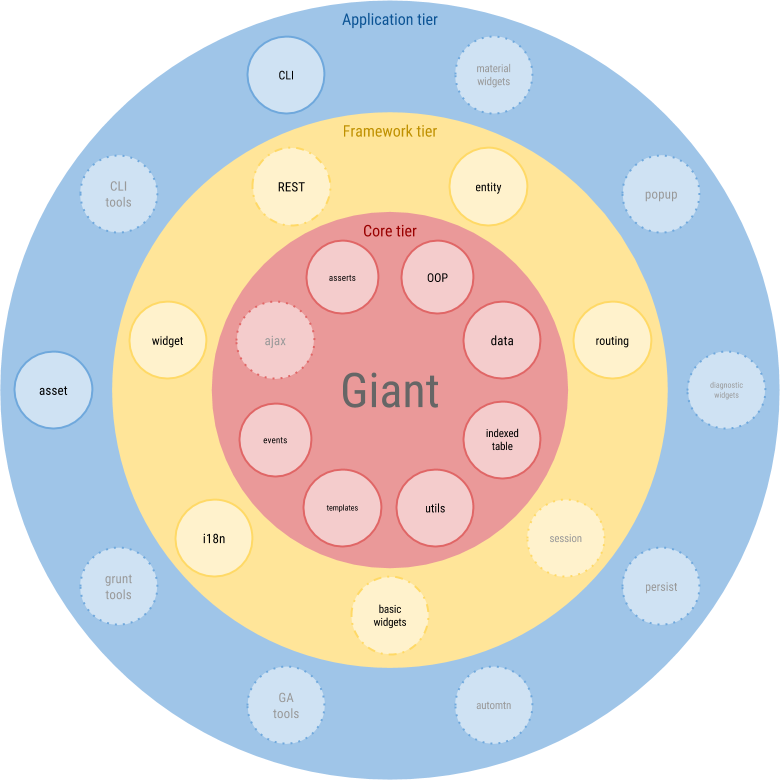
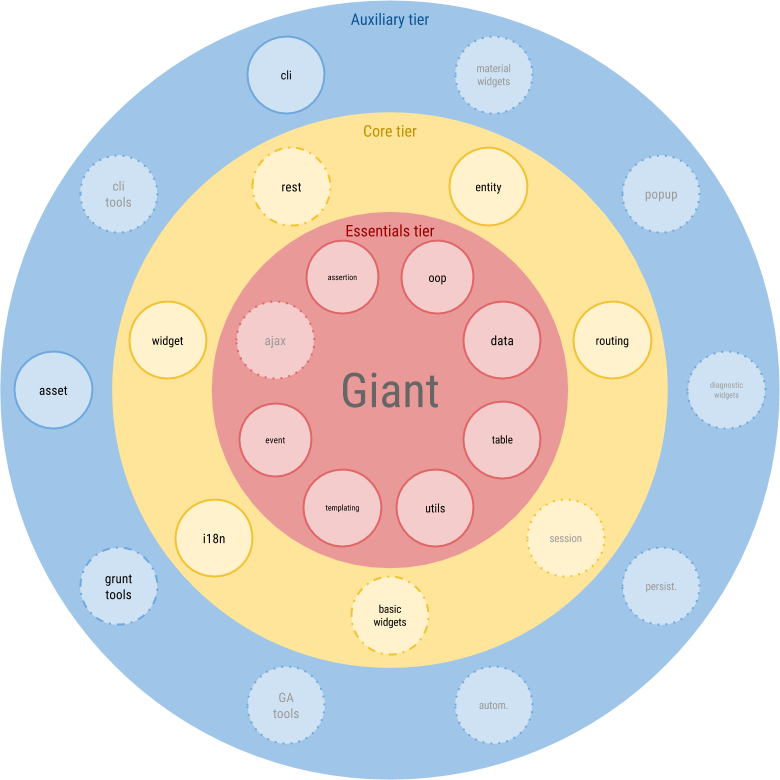
adds module descriptions

diff --git a/Introduction.md b/Introduction.md
@@ -23,45 +23,45 @@ Giant encourages the application of these directives to the SPAs built with it.
 Modules
 -------
 
-In Giant, each module takes care of a specific aspect of the application. Modules are self-containing [npm](http://npmjs.org) packages, able to run both in modern browsers and under [Node.js](https://nodejs.org). On the figure below, each bubble represents a module of the framework, organized into 3 tiers: core, framework, and application. Modules in one tier may only depend on modules in the same or lower tiers. Modules that are grayed out are not published yet.
+In Giant, each module takes care of a specific aspect of the application. Modules are self-containing [npm](http://npmjs.org) packages, able to run both in modern browsers and under [Node.js](https://nodejs.org). On the figure below, each bubble represents a module of the framework, organized into 3 tiers: *essentials*, *core*, and *auxiliary*. Modules in one tier may only depend on modules in the same or lower tiers. Modules that are grayed out are not published yet.
 
 ![Module structure (Open in new tab to magnify)](https://raw.githubusercontent.com/giantjs/giant-developer-guide/draft/images/Giant%20Modules.png)
 
-### Core tier modules
+### Essentials tier
 
-Basic functionality for building classes, logging errors, coupling components, and managing data objects.
+Basic functionality for building classes, logging errors, coupling components, and managing templates and data objects.
 
-- **Extensible assertions**: Provides a few built-in assertions and an interface to add new ones.
-- **OOP and testing**: Implements a powerful OOP toolkit that allows multiple inheritance, reflection, and provides means for performance tuning and unit testing.
-- **General utilities**: Low-level utilities, eg. async tools, promises, string, and array manipulation. 
-- **Data structures**: Hash-based data structures such as collections, dictionaries, sets, trees, with functional APIs.
-- **Universal events**: Event dispatching and subscription mechanism that is universally applicable to anything that may be represented by a path.
-- **String templating**: Flexible, evented string-replacement.
-- **Ajax**: Evented API around URLs and `XMLHttpRequest`.
-- **Indexed tables**: Hash-based implementation of indexed querying and updates on JSON objects that represent tables.
+- **assertion**: Provides a few built-in assertions and an interface to add new ones.
+- **oop**: Implements a powerful OOP toolkit that allows multiple inheritance, instance caching, and reflection; provides means for performance tuning and unit testing.
+- **utils**: Low-level utilities, eg. async tools, promises, as well as string, and array manipulation. 
+- **data**: Hash-based data structures such as collections, dictionaries, sets, trees, with functional APIs.
+- **event**: Event dispatching and subscription mechanism that is universally applicable to anything that may be represented by a path. Allows events to be traced back to their origin.
+- **templating**: Flexible, evented string-replacement.
+- **ajax**: Evented API around URLs and `XMLHttpRequest`.
+- **table**: Hash-based implementation of querying and updates on indexed JSON objects that represent tables.
 
-### Framework tier modules:
+### Core tier
 
-Low-level and common application components.
+Low-level and common application components. The core tier alone is enough to build applications, when auxiliary tier models are not necessary or not suitable.
 
-- **API access**
-- **Entity system**
-- **Routing**
-- **Widget system**
-- **Internationalization**
-- **Session management**
-- **General purpose widgets**
+- **rest (transport)**: Implements evented access to REST APIs. Decouples AJAX requests from application components consuming API responses.
+- **entity**: Introduces an evented in-memory datastore for managing documents, fields, and collections, as well as lookups and search indexes. 
+- **routing**: Provides an API for navigation and notifies on route changes.
+- **widget**: Basis for stateful view-controllers. Widgets are self-contained, arranged in a high-level hierarchy (approximating the DOM), and have a life cycle.
+- **i18n**: Provides API for switching locale & obtaining localized strings. Maintains evented, application-wide locale state, introduces quasi-strings that serialize according to the current locale. JSON-based, compatible with [gettext](https://www.gnu.org/software/gettext/). Agnostic re. JSON source.
+- **session**: Provides API for user authentication. Maintains evented, application-wide state for current user. Back-end agnostic.
+- **basic-widgets (common-widgets)**: Set of commonly used skinless widgets, based on the **widget** module.
 
-### Application tier modules:
+### Auxiliary tier
 
 High-level components for assisting development, deployment, and logging.
 
-- **Asset management**
-- **CLI building tools**
-- **Diagnostic widgets**
-- **Google Analytics tools**
-- **Grunt tools**
-- **Material design widgets**
-- **Popup management**
-- **Test & build automation**
-- **Framework CLI**
+- **asset**: Manages application assets, both at build / deployment, as well as loading.
+- **cli-tools**: Implements classes for dealing with CLI arguments in a uniform way.
+- **diagnostic-widgets**: A set of skinned widgets providing insight to the developer about current application state.
+- **ga-tools**: Provides high-level API for connecting the application with [Google Analytics](https://www.google.com/analytics/).
+- **grunt-tools**: Provides high-level and uniform API for dealing with [Grunt](http://gruntjs.com/) tasks.
+- **material-widgets**: Adds off-the-shelf [Google Material Design]() widgets on top of **widgets** and **basic-widgets**.
+- **popup**: Adds off-the-shelf popup management for dealing with stacking and queueing.
+- **automation**: Introduces tools for automating visual regression testing.
+- **cli**: Essential command line tools for building Giant-based applications, initializing projects and application modules.
